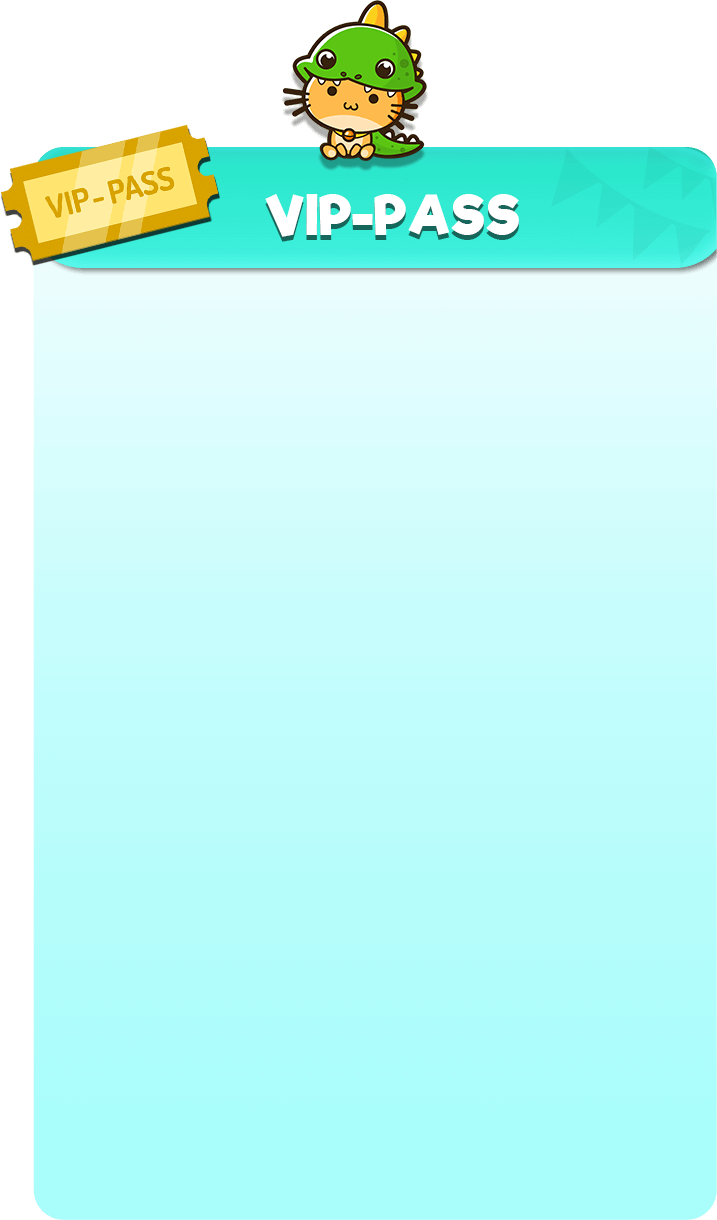
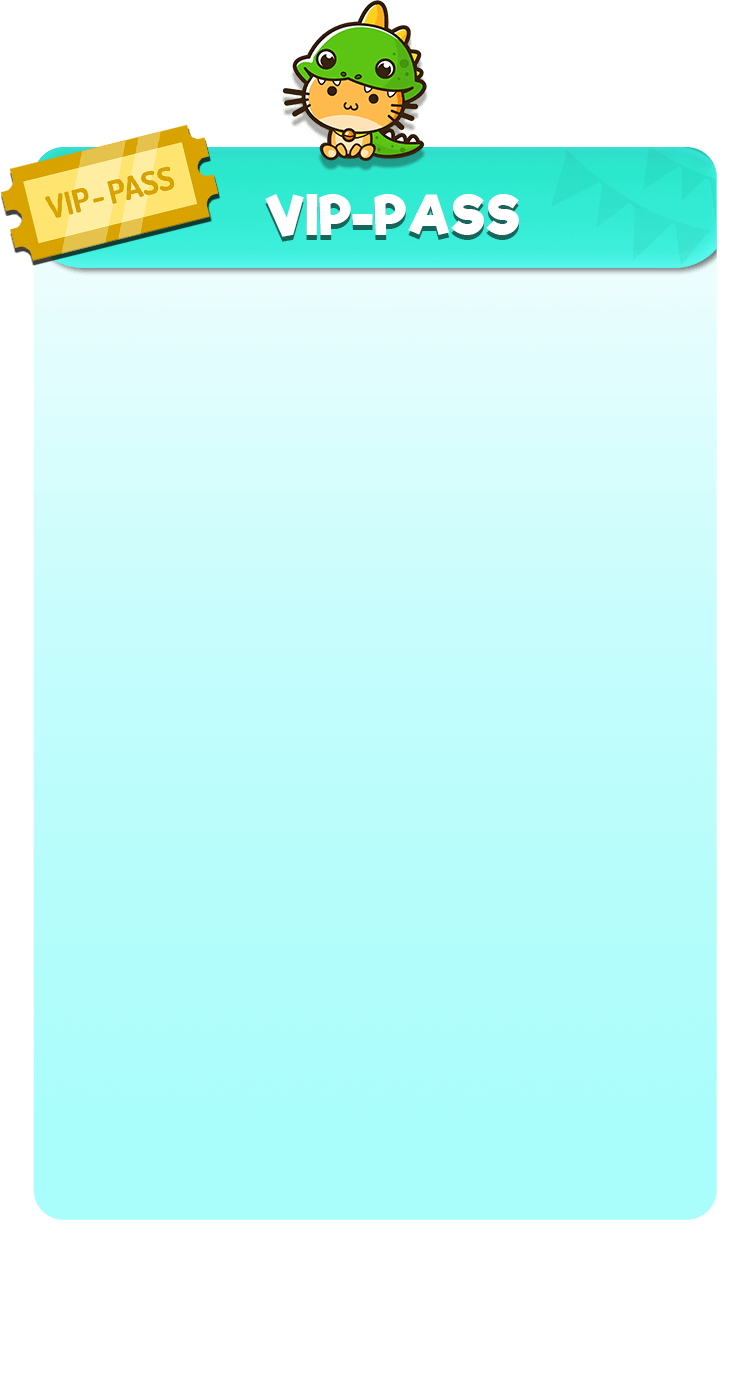
vip pass ui

Changed region(s): [[0.0, 0.0, 1.0, 1.0]]

diff --git a/src/popups/vip-pass/vip-pass.component.ts b/src/popups/vip-pass/vip-pass.component.ts
@@ -7,7 +7,7 @@ import { HttpClient } from '@angular/common/http';
  * @Author: Wayne Yu
  * @Date: 2021-07-16 11:54:28
  * @LastEditors: Wayne Yu
- * @LastEditTime: 2021-07-29 15:18:54
+ * @LastEditTime: 2021-08-19 18:03:02
  */
 import { Component } from '@angular/core';
 
@@ -21,8 +21,6 @@ export class VipPassComponent extends GenericModalComponent {
   tokens!: BitmapData;
   free!: BitmapData;
   exchange!: BitmapData;
-  shipment!: BitmapData;
-  premium!: BitmapData;
   buyBtn!: BitmapData;
 
   priceText!: TextData;
@@ -31,6 +29,9 @@ export class VipPassComponent extends GenericModalComponent {
   vipPrice: number = 0;
   vipDays: number = 0;
   vipCoins: number = 0;
+
+  hasCoinText: boolean = false;
+  hasDaysText: boolean = false;
 
   product!: any;
 
@@ -42,19 +43,22 @@ export class VipPassComponent extends GenericModalComponent {
     super.setPopupBg( "bg" );
 
     this.popupBg = this.textureData.getTexture( "bg" );
-    this.tokens = this.textureData.getTexture( "tokens", 72, 240 );
-    this.free = this.textureData.getTexture( "free", 390, 242 );
-    this.exchange = this.textureData.getTexture( "exchange", 8, 592 );
-    this.shipment = this.textureData.getTexture( "shipment", 202, 610 );
-    this.premium = this.textureData.getTexture( "premium", 464, 554 );
-    this.closeBtn = this.textureData.getTexture( "btn_return", 24, 12 );
-    this.buyBtn = this.textureData.getTexture( "btn_get vip", 180, 1065 );
+    this.closeBtn = this.buildUI( this.textureJson.closeBtn );
+    this.buyBtn = this.buildUI( this.textureJson.vip );
+    if( this.textureJson.title ) this.tokens = this.buildUI( this.textureJson.title );
+    if( this.textureJson.free ) this.free = this.buildUI( this.textureJson.free );
+    if( this.textureJson.exchange ) this.exchange = this.buildUI( this.textureJson.exchange );
 
     this.priceText = this.textureJson.price;
 
-    if( this.textureJson.days ) this.daysText = this.textureJson.days;
-    if( this.textureJson.coins ) this.coinsText = this.textureJson.coins;
-
+    if( this.textureJson.days ){
+      this.daysText = this.textureJson.days;
+      this.hasCoinText = true;
+    }
+    if( this.textureJson.coins ){
+      this.coinsText = this.textureJson.coins;
+      this.hasDaysText = true;
+    }
     let products: any = Trigger.popupData.products;
     if( !products || !products.length ) trace.log( "wrong po data" );
     let product: any = products[0]
@@ -66,8 +70,8 @@ export class VipPassComponent extends GenericModalComponent {
     let days: any = this.getItemByType( "subscription_days", items );
     let subCoins: any = this.getItemByType( "subscription_coins", items );
     this.vipPrice = product.price;
-    this.vipDays = days.subscription_days;
-    this.vipCoins = coinsItem.after_discount_coins + subCoins.subscription_coins;
+    if( days )this.vipDays = days.subscription_days;
+    if( subCoins )this.vipCoins = coinsItem.after_discount_coins + subCoins.subscription_coins;
   }
 
   getItemByType( typeName: string, items: any[] ): any{

diff --git a/src/popups/vip-pass/vip-pass.component.html b/src/popups/vip-pass/vip-pass.component.html
@@ -4,7 +4,7 @@
  * @Author: Wayne Yu
  * @Date: 2021-07-16 11:54:28
  * @LastEditors: Wayne Yu
- * @LastEditTime: 2021-08-02 16:42:30
+ * @LastEditTime: 2021-08-19 17:48:31
 -->
 <div [style.marginLeft]="-this.marginLeft+'px'" [style.marginTop]="-this.marginTop+'px'">
   <img [src]="textureDetactive" (load)="bgTextureLoaded()" [hidden]="true"/>
@@ -12,13 +12,11 @@
   <app-image [imgData]="tokens"></app-image>
   <app-image [imgData]="free"></app-image>
   <app-image [imgData]="exchange"></app-image>
-  <app-image [imgData]="shipment"></app-image>
-  <app-image [imgData]="premium"></app-image>
   <app-image-button [imgData]="buyBtn" (itemClick)="buyVip()"></app-image-button>
   <app-image-button [imgData]="closeBtn" (itemClick)="closePo()"></app-image-button>
   <div class="priceTextDiv">
   <app-popup-text-field [textData]="priceText" [text]="'$' + vipPrice"></app-popup-text-field>
-  <app-popup-text-field [textData]="coinsText" [text]="'' + vipCoins"></app-popup-text-field>
-  <app-popup-text-field [textData]="daysText" [text]="'' + vipDays"></app-popup-text-field>
+  <app-popup-text-field [textData]="coinsText" [text]="'' + vipCoins" *ngIf="hasCoinText"></app-popup-text-field>
+  <app-popup-text-field [textData]="daysText" [text]="'' + vipDays"  *ngIf="hasDaysText"></app-popup-text-field>
     </div>
 </div>
